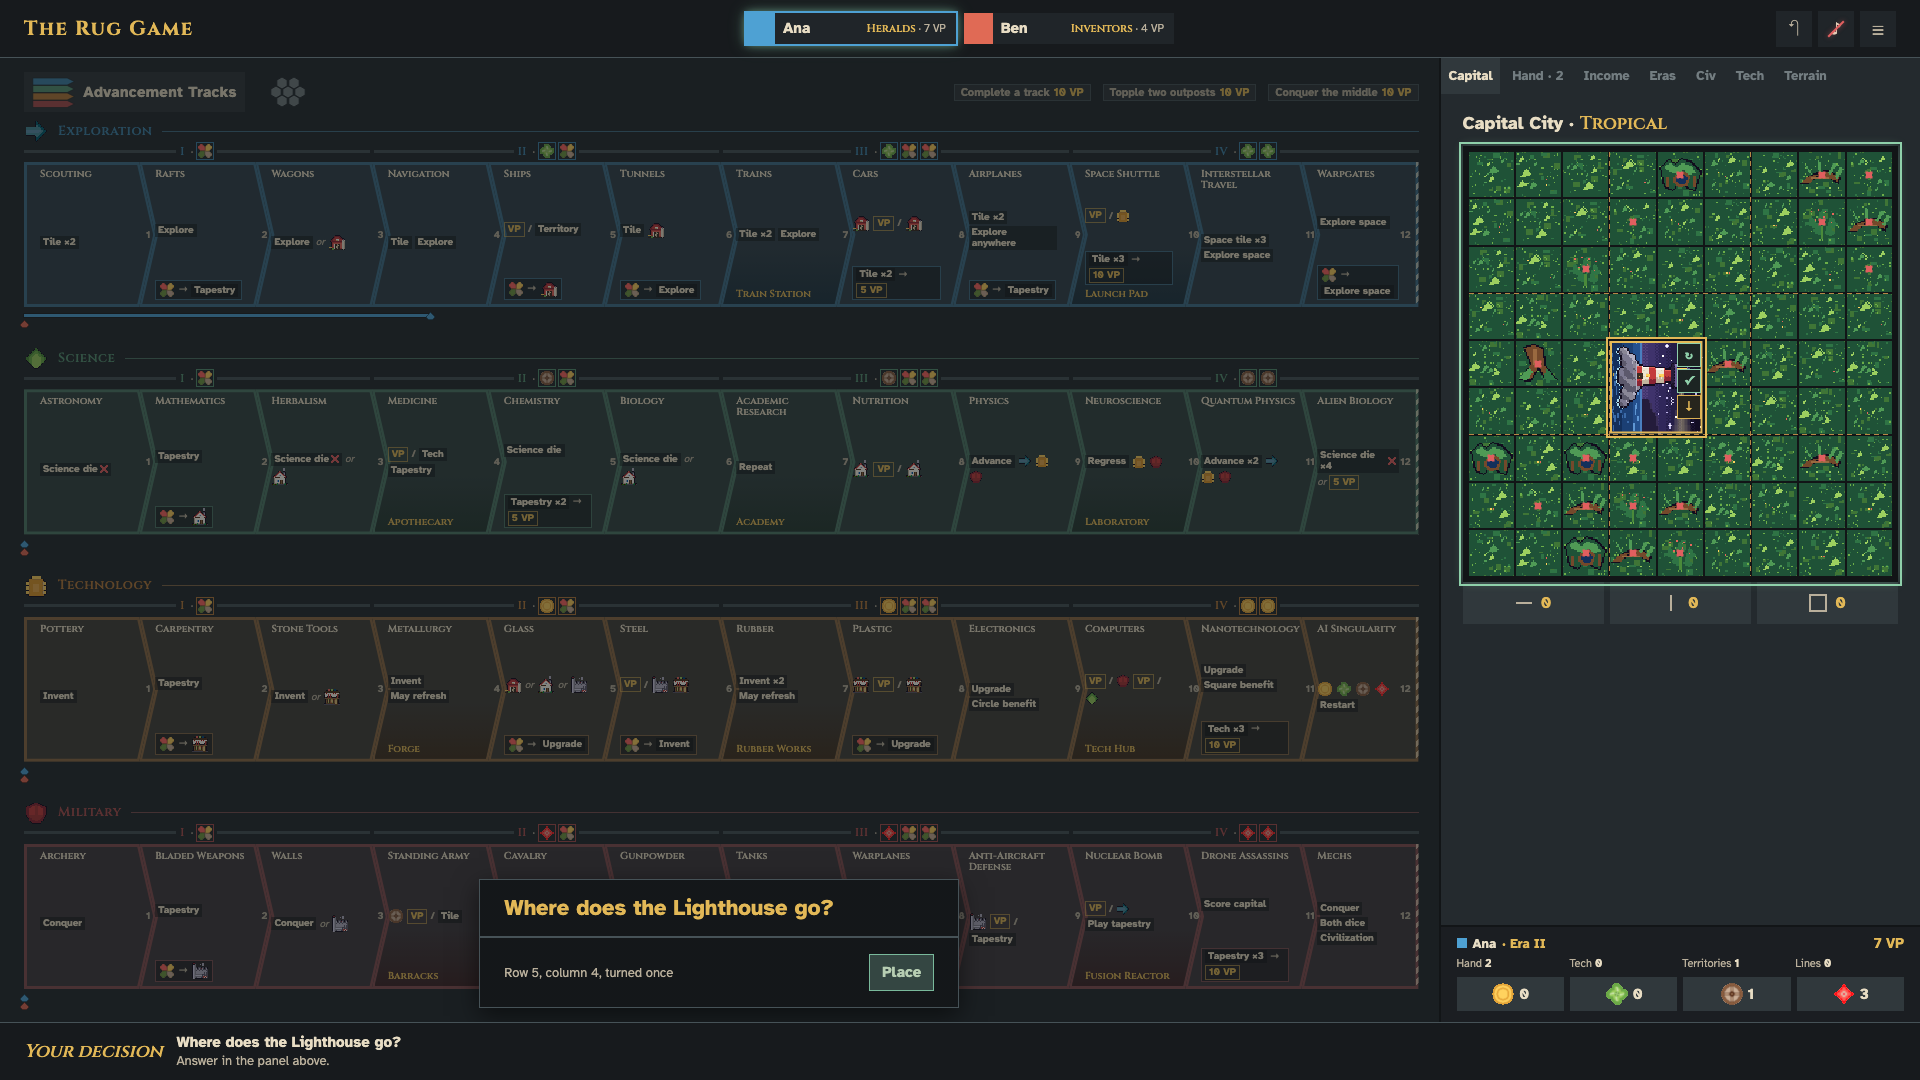
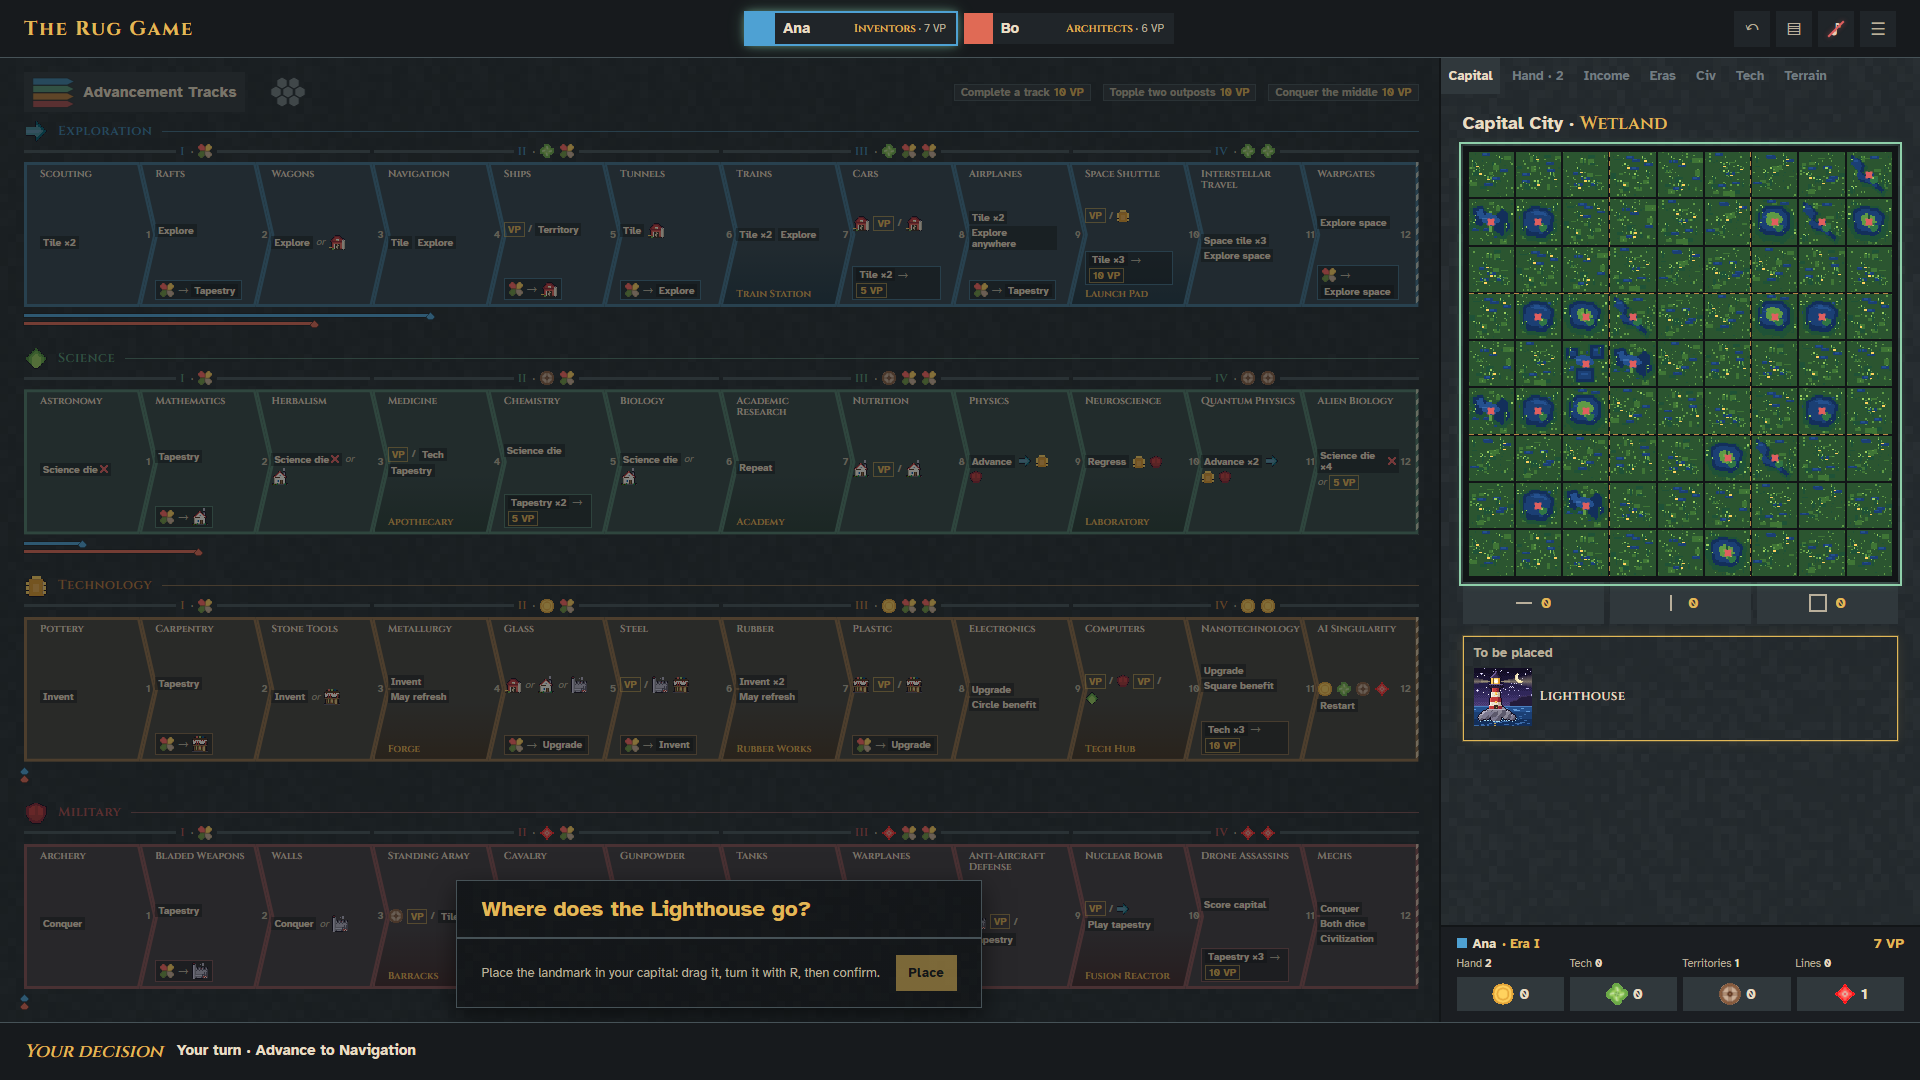
Refresh remaining decision screenshots for #73

diff --git a/README.md b/README.md
@@ -62,7 +62,7 @@ The colours, texture, type, spacing, shadows and motion of these designs are in 
 
 | Prompt: placing a landmark | Prompt: the income turn |
 |---|---|
-| ![The Lighthouse placed and turned on the Capital tab, with the panel naming its plot](docs/ui/screens/game-prompt-capital.png) | ![The income turn's tapestry step in gold, with the panel's question shown only once](docs/ui/screens/game-prompt-income.png) |
+| ![The Lighthouse waiting for placement on the Capital tab, with the decision panel below](docs/ui/screens/game-prompt-capital.png) | ![The income turn's tapestry step in gold, with the panel's question shown only once](docs/ui/screens/game-prompt-income.png) |
 
 Open the references directly or run `node docs/ui/preview.mjs` (port 52990): [Launch](docs/ui/launch.html), [Lobby](docs/ui/lobby.html), [Game](docs/ui/main-screen.html), [End screen](docs/ui/end-screen.html).
 
